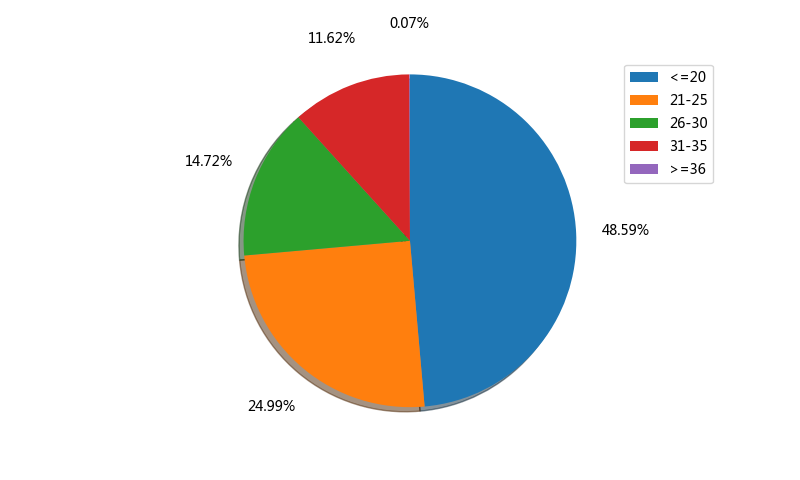
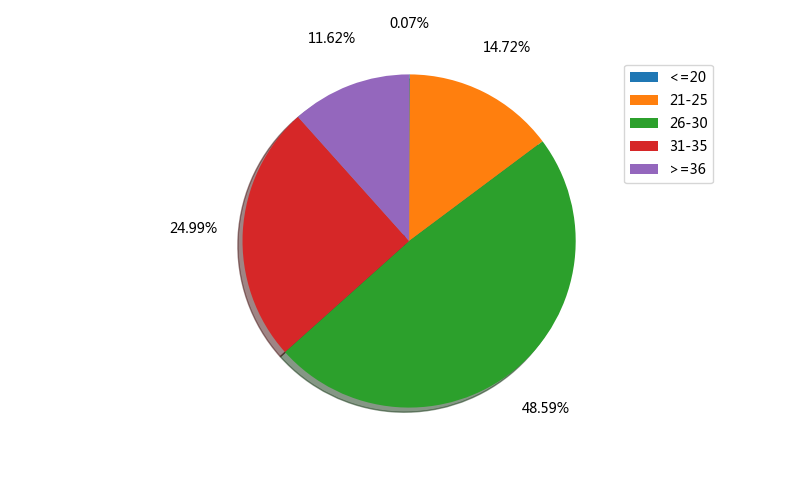
1-31 morning

diff --git a/figureUse.py b/figureUse.py
@@ -119,122 +119,122 @@ def pic2(figGen):
               'mbirthday is not null', 'mbirthday is not null', 'mbirthday is not null']
     labels = ['<=20', '21-25', '26-30', '31-35', '>=36']
     figGen.drawDisease('12', list_a, list_d, labels, "exam", "all", config.year,
-                       isPercent=True, complete=True, picType="pie")
+                       isPercent=True, complete=True, picType="pie",isSort=False)
     figGen.drawDiseaseDistrict('13', list_a, list_d, labels, "exam", config.year,
                                isPercent=True, complete=True, picType="spbar",
                                yLable="", hline=False,
                                hasTable=False, figureText="", colorList=[])
     #TODO  饼图篡改标签、标签重合，百分堆积不是百分百、标签重合
-    list_a = ['((DATEDIFF(service_time,fbirthday) div 365) <= 20)',
-             '((DATEDIFF(service_time,fbirthday) div 365) between 21 and 25)',
-             '((DATEDIFF(service_time,fbirthday) div 365) between 26 and 30)',
-             '((DATEDIFF(service_time,fbirthday) div 365) between 31 and 35)',
-             '((DATEDIFF(service_time,fbirthday) div 365) >= 36)']
-    list_d = ['fbirthday is not null', 'fbirthday is not null',
-              'fbirthday is not null', 'fbirthday is not null', 'fbirthday is not null']
-    labels = ['<=20', '21-25', '26-30', '31-35', '>=36']
-    figGen.drawDisease('14', list_a, list_d, labels, "exam", "all", config.year,
-                       isPercent=True, complete=True, picType="pie")
-    figGen.drawDiseaseDistrict('15', list_a, list_d, labels, "exam", config.year,
-                               isPercent=True, complete=True, picType="spbar",
-                               yLable="", hline=False,
-                               hasTable=False, figureText="", colorList=[])
+    # list_a = ['((DATEDIFF(service_time,fbirthday) div 365) <= 20)',
+    #          '((DATEDIFF(service_time,fbirthday) div 365) between 21 and 25)',
+    #          '((DATEDIFF(service_time,fbirthday) div 365) between 26 and 30)',
+    #          '((DATEDIFF(service_time,fbirthday) div 365) between 31 and 35)',
+    #          '((DATEDIFF(service_time,fbirthday) div 365) >= 36)']
+    # list_d = ['fbirthday is not null', 'fbirthday is not null',
+    #           'fbirthday is not null', 'fbirthday is not null', 'fbirthday is not null']
+    # labels = ['<=20', '21-25', '26-30', '31-35', '>=36']
+    # figGen.drawDisease('14', list_a, list_d, labels, "exam", "all", config.year,
+    #                    isPercent=True, complete=True, picType="pie")
+    # figGen.drawDiseaseDistrict('15', list_a, list_d, labels, "exam", config.year,
+    #                            isPercent=True, complete=True, picType="spbar",
+    #                            yLable="", hline=False,
+    #                            hasTable=False, figureText="", colorList=[])
+    #
+    # list_a = ['((DATEDIFF(service_time,mbirthday) div 365) = (DATEDIFF(service_time,fbirthday) div 365))',
+    #          '((DATEDIFF(service_time,mbirthday) div 365) < (DATEDIFF(service_time,fbirthday) div 365))',
+    #          '((DATEDIFF(service_time,mbirthday) div 365) > (DATEDIFF(service_time,fbirthday) div 365))']
+    # list_d = ['fbirthday is not null and mbirthday is not null', 'fbirthday is not null and mbirthday is not null',
+    #          'fbirthday is not null and mbirthday is not null']
+    # labels = ['同岁', '丈夫比妻子小', '丈夫比妻子大']
+    # figGen.drawDisease('16', list_a, list_d, labels, "exam", "all", config.year,
+    #                    isPercent=True, complete=True, picType="pie")
 
-    list_a = ['((DATEDIFF(service_time,mbirthday) div 365) = (DATEDIFF(service_time,fbirthday) div 365))',
-             '((DATEDIFF(service_time,mbirthday) div 365) < (DATEDIFF(service_time,fbirthday) div 365))',
-             '((DATEDIFF(service_time,mbirthday) div 365) > (DATEDIFF(service_time,fbirthday) div 365))']
-    list_d = ['fbirthday is not null and mbirthday is not null', 'fbirthday is not null and mbirthday is not null',
-             'fbirthday is not null and mbirthday is not null']
-    labels = ['同岁', '丈夫比妻子小', '丈夫比妻子大']
-    figGen.drawDisease('16', list_a, list_d, labels, "exam", "all", config.year,
-                       isPercent=True, complete=True, picType="pie")
-
-
-    list_a = ["medu_level=1", "medu_level=2", "medu_level=3", "medu_level=4", "medu_level=5", "medu_level=6"]
-    list_d = ["medu_level is not null", "medu_level is not null", "medu_level is not null", "medu_level is not null",
-            "medu_level is not null", "medu_level is not null"]
-    labels = ["文盲", "小学", "初中", "高中\n/中专\n/中技", "大专\n/大本", "研究生\n及以上"]
-    figGen.drawDisease('18', list_a, list_d, labels, "exam", "all", config.year,
-                       isPercent=True, complete=True, picType="pie")
-
-    figGen.drawDiseaseDistrict('19', list_a, list_d, labels, "exam", config.year,
-                               isPercent=True, complete=True, picType="spbar",
-                               yLable="", hline=False,
-                               hasTable=False, figureText="", colorList=[])
-
-
-    list_a = ["fedu_level=1", "fedu_level=2", "fedu_level=3", "fedu_level=4", "fedu_level=5", "fedu_level=6"]
-    list_d = ["fedu_level is not null", "fedu_level is not null", "fedu_level is not null", "fedu_level is not null",
-              "fedu_level is not null", "fedu_level is not null"]
-    labels = ["文盲", "小学", "初中", "高中/中专/中技", "大专/大本", "研究生及以上"]
-    figGen.drawDisease('20', list_a, list_d, labels, "exam", "all", config.year,
-                       isPercent=True, complete=True, picType="pie")
-    figGen.drawDiseaseDistrict('21', list_a, list_d, labels, "exam", config.year,
-                               isPercent=True, complete=True, picType="spbar",
-                               yLable="", hline=False,
-                               hasTable=False, figureText="", colorList=[])
-
-    list_a = ["mjob=1", "mjob=2", "mjob=3", "mjob=4", "mjob=5", "mjob=6", "mjob=7"]
-    list_d = ["mjob is not null", "mjob is not null", "mjob is not null", "mjob is not null",
-              "mjob is not null", "mjob is not null", "mjob is not null"]
-    labels = ['农民','工人','服务业','经商','家务','教师\n/公务员\n/职员','其它']
-    figGen.drawDisease('22', list_a, list_d, labels, "exam", "all", config.year,
-                       isPercent=True, complete=True, picType="pie")
-
-    figGen.drawDiseaseDistrict('23', list_a, list_d, labels, "exam", config.year,
-                               isPercent=True, complete=True, picType="hspbar",
-                               yLable="", hline=False,
-                               hasTable=False, figureText="", colorList=[])
-
-    list_a = ["fjob=1", "fjob=2", "fjob=3", "fjob=4", "fjob=5", "fjob=6", "fjob=7"]
-    list_d = ["fjob is not null", "fjob is not null", "fjob is not null", "fjob is not null",
-              "fjob is not null", "fjob is not null", "fjob is not null"]
-    labels = ['农民', '工人', '服务业', '经商', '家务', '教师/公务员/职员', '其它']
-    figGen.drawDisease('24', list_a, list_d, labels, "exam", "all", config.year,
-                       isPercent=True, complete=True, picType="pie")
-
-    figGen.drawDiseaseDistrict('25', list_a, list_d, labels, "exam", config.year,
-                               isPercent=True, complete=True, picType="hspbar",
-                               yLable="", hline=False,
-                               hasTable=False, figureText="", colorList=[])
-
-    text_q = ''
-    figGen.drawDistrict('26', "mnationality!='汉族'", "", "exam", config.year,
-                        isPercent=True, complete=True, figureText=text_q,
-                        yLable="百分比（%）", colorList=["b"])
-    figGen.drawDistrict('27', "fnationality!='汉族'", "", "exam", config.year,
-                        isPercent=True, complete=True, figureText=text_q,
-                        yLable="百分比（%）", colorList=["r"])
-
-
-    list_a1 = ['(has_content=2 or has_content=4) and faccount_location_city=address_city', '(has_content=2 or has_content=4) and faccount_location_city!=address_city']
-    list_d1 = ['(has_content=2 or has_content=4) and faccount_location_city is not null and address_city is not null', '(has_content=2 or has_content=4) and faccount_location_city is not null and address_city is not null']
-    list_a2 = ["has_content between 3 and 4 and maccount_location_city=address_city", "has_content between 3 and 4 and maccount_location_city!=address_city"]
-    list_d2 = ["has_content between 3 and 4 and maccount_location_city is not null and address_city is not null", "has_content between 3 and 4 and maccount_location_city is not null and address_city is not null"]
-    list_a = [list_a1, list_a2]
-    list_d = [list_d1, list_d2]
-    labels = ['女方', '男方']
-    xlabels = ['本地', '非本地']
-    figGen.drawDisease2('28', list_a, list_d, labels, xlabels, "exam", config.year,
-                        isSort=False,
-                        isPercent=True, complete=True, picType="bar",
-                        yLable="百分比（%）")
-
-    list_a = list_a2
-    list_d = list_d2
-    labels = xlabels
-    figGen.drawDiseaseDistrict('29', list_a, list_d, labels, "exam", config.year,
-                               isPercent=True, complete=True, picType="spbar",
-                               yLable="百分比（%）", hline=False,
-                               hasTable=False, figureText="", colorList=[])
-
-    list_a = list_a1
-    list_d = list_d1
-    labels = xlabels
-    figGen.drawDiseaseDistrict('30', list_a, list_d, labels, "exam", config.year,
-                               isPercent=True, complete=True, picType="spbar",
-                               yLable="百分比（%）", hline=False,
-                               hasTable=False, figureText="", colorList=[])
+    #
+    # list_a = ["medu_level=1", "medu_level=2", "medu_level=3", "medu_level=4", "medu_level=5", "medu_level=6"]
+    # list_d = ["medu_level is not null", "medu_level is not null", "medu_level is not null", "medu_level is not null",
+    #         "medu_level is not null", "medu_level is not null"]
+    # labels = ["文盲", "小学", "初中", "高中\n/中专\n/中技", "大专\n/大本", "研究生\n及以上"]
+    # figGen.drawDisease('18', list_a, list_d, labels, "exam", "all", config.year,
+    #                    isPercent=True, complete=True, picType="pie")
+    #
+    # figGen.drawDiseaseDistrict('19', list_a, list_d, labels, "exam", config.year,
+    #                            isPercent=True, complete=True, picType="spbar",
+    #                            yLable="", hline=False,
+    #                            hasTable=False, figureText="", colorList=[])
+    #
+    #
+    # list_a = ["fedu_level=1", "fedu_level=2", "fedu_level=3", "fedu_level=4", "fedu_level=5", "fedu_level=6"]
+    # list_d = ["fedu_level is not null", "fedu_level is not null", "fedu_level is not null", "fedu_level is not null",
+    #           "fedu_level is not null", "fedu_level is not null"]
+    # labels = ["文盲", "小学", "初中", "高中/中专/中技", "大专/大本", "研究生及以上"]
+    # figGen.drawDisease('20', list_a, list_d, labels, "exam", "all", config.year,
+    #                    isPercent=True, complete=True, picType="pie")
+    # figGen.drawDiseaseDistrict('21', list_a, list_d, labels, "exam", config.year,
+    #                            isPercent=True, complete=True, picType="spbar",
+    #                            yLable="", hline=False,
+    #                            hasTable=False, figureText="", colorList=[])
+    #
+    # list_a = ["mjob=1", "mjob=2", "mjob=3", "mjob=4", "mjob=5", "mjob=6", "mjob=7"]
+    # list_d = ["mjob is not null", "mjob is not null", "mjob is not null", "mjob is not null",
+    #           "mjob is not null", "mjob is not null", "mjob is not null"]
+    # labels = ['农民','工人','服务业','经商','家务','教师\n/公务员\n/职员','其它']
+    # figGen.drawDisease('22', list_a, list_d, labels, "exam", "all", config.year,
+    #                    isPercent=True, complete=True, picType="pie")
+    #
+    # figGen.drawDiseaseDistrict('23', list_a, list_d, labels, "exam", config.year,
+    #                            isPercent=True, complete=True, picType="hspbar",
+    #                            yLable="", hline=False,
+    #                            hasTable=False, figureText="", colorList=[])
+    #
+    # list_a = ["fjob=1", "fjob=2", "fjob=3", "fjob=4", "fjob=5", "fjob=6", "fjob=7"]
+    # list_d = ["fjob is not null", "fjob is not null", "fjob is not null", "fjob is not null",
+    #           "fjob is not null", "fjob is not null", "fjob is not null"]
+    # labels = ['农民', '工人', '服务业', '经商', '家务', '教师/公务员/职员', '其它']
+    # figGen.drawDisease('24', list_a, list_d, labels, "exam", "all", config.year,
+    #                    isPercent=True, complete=True, picType="pie")
+    #
+    # figGen.drawDiseaseDistrict('25', list_a, list_d, labels, "exam", config.year,
+    #                            isPercent=True, complete=True, picType="hspbar",
+    #                            yLable="", hline=False,
+    #                            hasTable=False, figureText="", colorList=[])
+    #
+    # text_q = ''
+    # figGen.drawDistrict('26', "mnationality!='汉族'", "", "exam", config.year,
+    #                     isPercent=True, complete=True, figureText=text_q,
+    #                     yLable="百分比（%）", colorList=["b"])
+    # figGen.drawDistrict('27', "fnationality!='汉族'", "", "exam", config.year,
+    #                     isPercent=True, complete=True, figureText=text_q,
+    #                     yLable="百分比（%）", colorList=["r"])
+    #
+    #
+    # list_a1 = ['(has_content=2 or has_content=4) and faccount_location_city=address_city', '(has_content=2 or has_content=4) and faccount_location_city!=address_city']
+    # list_d1 = ['(has_content=2 or has_content=4) and faccount_location_city is not null and address_city is not null', '(has_content=2 or has_content=4) and faccount_location_city is not null and address_city is not null']
+    # list_a2 = ["has_content between 3 and 4 and maccount_location_city=address_city", "has_content between 3 and 4 and maccount_location_city!=address_city"]
+    # list_d2 = ["has_content between 3 and 4 and maccount_location_city is not null and address_city is not null", "has_content between 3 and 4 and maccount_location_city is not null and address_city is not null"]
+    # list_a = [list_a1, list_a2]
+    # list_d = [list_d1, list_d2]
+    # labels = ['女方', '男方']
+    # xlabels = ['本地', '非本地']
+    # figGen.drawDisease2('28', list_a, list_d, labels, xlabels, "exam", config.year,
+    #                     isSort=False,
+    #                     isPercent=True, complete=True, picType="bar",
+    #                     yLable="百分比（%）")
+    #
+    # list_a = list_a2
+    # list_d = list_d2
+    # labels = xlabels
+    # figGen.drawDiseaseDistrict('29', list_a, list_d, labels, "exam", config.year,
+    #                            isPercent=True, complete=True, picType="spbar",
+    #                            yLable="百分比（%）", hline=False,
+    #                            hasTable=False, figureText="", colorList=[])
+    #
+    # list_a = list_a1
+    # list_d = list_d1
+    # labels = xlabels
+    # figGen.drawDiseaseDistrict('30', list_a, list_d, labels, "exam", config.year,
+    #                            isPercent=True, complete=True, picType="spbar",
+    #                            yLable="百分比（%）", hline=False,
+    #                            hasTable=False, figureText="", colorList=[])
 
 
 def pic3_5(figGen):

diff --git a/FiguresHelper.py b/FiguresHelper.py
@@ -9,6 +9,7 @@ import matplotlib.pyplot as plt
 import numpy as np
 import pdb
 import os
+import matplotlib.gridspec as gridspec
 
 class FigureHelper:
 
@@ -52,12 +53,17 @@ class FigureHelper:
     # yLabel: y轴标签，可为空
     def stackedBarPlot(self,dataList, dataLabelList, xAxisLabelList,xLable=None,yLabel=None):
 
+        case_cnt = len(dataList)  # 颜色组
+
         figureId = self.gernerateFigure()
         if len(dataList) == 0:
             return None
         legends = []
         xIndexes = np.arange(len(dataList[0]))
         yOffset = np.zeros(len(dataList[0]))
+
+        if case_cnt >=4:
+            plt.subplot2grid((1, 12), (0, 0), colspan=11, rowspan=1)
 
         for i in range(0, len(dataList)):
             l = plt.bar(xIndexes, dataList[i], bottom=yOffset, width=0.35)
@@ -67,10 +73,18 @@ class FigureHelper:
         if yLabel is not None:
             plt.ylabel(yLabel)
         plt.xticks(xIndexes, xAxisLabelList)
-        plt.legend(legends, dataLabelList)
+        # plt.legend(legends, dataLabelList)
         # plt.legend(legends, dataLabelList, bbox_to_anchor=(1.01, 1), loc=2, borderaxespad=0.)
-        plt.legend(legends, dataLabelList, bbox_to_anchor=(0.25, 1.02, 0.5, .102), loc=3,
-                   ncol=len(dataLabelList), mode="expand", borderaxespad=0.)
+        bbox_to_anchor = (0.25, 1.02, 0.5, .102)
+        if case_cnt >=4:
+            bbox_to_anchor = (1.05, 0.65)
+            plt.legend(legends, dataLabelList, bbox_to_anchor=bbox_to_anchor, loc=2,
+                        borderaxespad=0.)
+        else:
+            plt.legend(legends, dataLabelList, bbox_to_anchor=bbox_to_anchor, loc=3,
+                       ncol=len(dataLabelList), mode="expand", borderaxespad=0.)
+
+
         # plt.legend(legends, dataLabelList, bbox_to_anchor=(0.25, -.1, 0.5, -.1), loc=3,
         #           ncol=4, mode="expand", borderaxespad=0.)
 
@@ -365,7 +379,8 @@ class FigureHelper:
         # TODO 饼图的数字重叠问题
         # explode = (0, 0, 0, 0)  # only "explode" the 2nd slice (i.e. 'Hogs')
         l = plt.pie(dataList, labels=dataLabelList, autopct='%1.2f%%',
-                    shadow=True, startangle=90, counterclock=False, pctdistance=1.3, labeldistance=5)
+                    shadow=True, startangle=90, counterclock=False, pctdistance = 1.3, labeldistance = 5)
+        #
         legends.append(l)
         plt.axis('equal')  # Equal aspect ratio ensures that pie is drawn as a circle.
         plt.legend()
@@ -437,16 +452,16 @@ if __name__ == '__main__':
     figureHelper = FigureHelper([8, 4.8])
 
 
-    data = [figureHelper.randomList(10), figureHelper.randomList(10)]
+    data = [figureHelper.randomList(8), figureHelper.randomList(8), figureHelper.randomList(8), figureHelper.randomList(8), figureHelper.randomList(8)]
     for d in data:
         print(d)
 
-    labels = ['2015', '2016']
+    labels = ['<=20', '21-25', '26-30', '31-35', '>=36']
     xlables = ["接触\n噪音","接触\n猫狗","接触有\n机溶剂","接触\n高温","接触\n放射线","接触\n重金属","接触\n农药","接触\n震动"]
     # 累计条图
-    # id1 = figureHelper.stackedBarPlot(data, labels, xlables, 'test')
-    # f = plt.figure(id1)
-    # f.savefig('3.png')
+    id1 = figureHelper.stackedBarPlot(data, labels, xlables, 'test')
+    f = plt.figure(id1)
+    f.savefig('test3.png')
 
     #百分累计条图
     # id2 = figureHelper.stackedBarPlotWithPercentage([[40, 30, 30], [50, 20, 30], [10, 50, 40]], ['1', '2', '3'],
@@ -470,13 +485,13 @@ if __name__ == '__main__':
     # f.savefig('5.png')
 
     #普通条图 带水平线
-    simpBarData = [figureHelper.randomList(10)]
-    simpBarlabels = ['meaning']
-    id6 = figureHelper.compoundBarPlot(simpBarData, simpBarlabels, xlables,
-                        xLable="", yLable="百分比（%）",hline=True,
-                        hasTable=False, figureText="全市平均水平",colorList=["b"])
-    f = plt.figure(id6)
-    f.savefig('6.png')
+    # simpBarData = [figureHelper.randomList(10)]
+    # simpBarlabels = ['meaning']
+    # id6 = figureHelper.compoundBarPlot(simpBarData, simpBarlabels, xlables,
+    #                     xLable="", yLable="百分比（%）",hline=True,
+    #                     hasTable=False, figureText="全市平均水平",colorList=["b"])
+    # f = plt.figure(id6)
+    # f.savefig('6.png')
 
     # 复式水平条图1
     # horiBarData = [[0.11, 0.26, 0.13, 0.32, 0.44, 1.16], [0.11, 0.23, 0.13, 0.24, 0.31, 0.7]]

diff --git a/figureGenerate.py b/figureGenerate.py
@@ -41,15 +41,17 @@ class figureGenerate:
 
     def drawDisease(self,fid, attrExprList, divideExprList,diseaseNameList, dbName,
                     mainType,year, isPercent, complete,xLable=None,yLable=None,picType = "bar",
-                    figureText=""):
+                    figureText="",isSort = True):
         try:
             if mainType == "all":
                 dataRaw = self.dbInf.getDiffDistrictData(attrExprList,divideExprList,diseaseNameList,
                                                          dbName,"all",year,isPercent,complete)
                 dataRaw = [x[0] for x in dataRaw]
-                dataRaw = self.dbInf.sortList(dataRaw)
+                if isSort:
+                    dataRaw = self.dbInf.sortList(dataRaw)
                 data = [[x[1] for x in dataRaw]]
-                labels = diseaseNameList
+
+                labels = [x[0] for x in dataRaw] #仅在画饼图时使用，含义为排序后病的名称
                 xlables = [x[0] for x in dataRaw]
                 id = self.basicDraw(picType, data, labels, xlables,xLable=xLable, yLable=yLable,
                                     hline=False, hasTable=False, figureText=figureText)  # 不带横线

diff --git a/DBinterface.py b/DBinterface.py
@@ -156,7 +156,7 @@ class DBInterface:
 
     def sortList(self,dataRaw,sortType = True):
         if sortType:
-            return  sorted(dataRaw, key=lambda dataRaw: dataRaw[1], reverse=1)
+            return sorted(dataRaw, key=lambda dataRaw: dataRaw[1], reverse=1)
         else:
             return sorted(dataRaw, key=lambda dataRaw: dataRaw[1])
 
